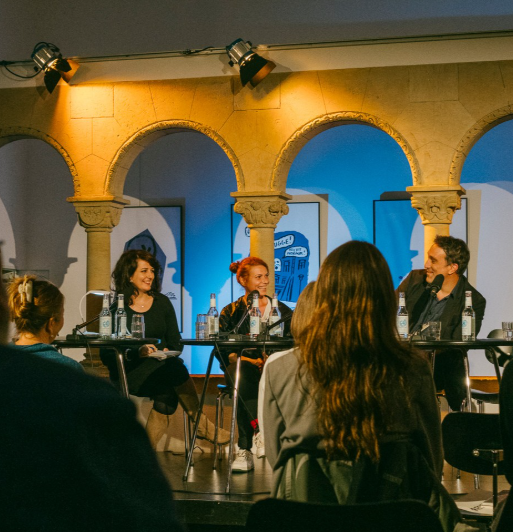
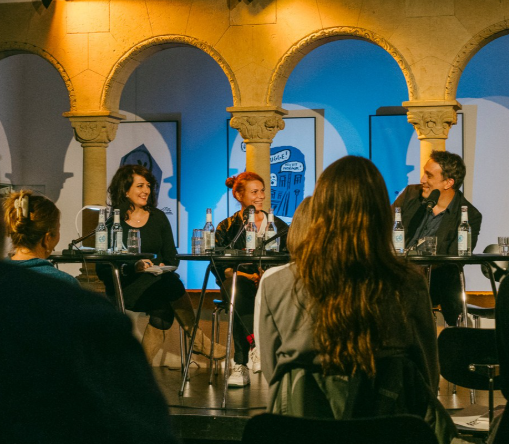
Add photo carousel for Die guten Tage VI event with round nav buttons
Replaces single static image with a two-photo carousel (p9.png, p11.png),
featuring circular prev/next arrow buttons and dot indicators.

diff --git a/src/pages/EventsPage.tsx b/src/pages/EventsPage.tsx
@@ -1,13 +1,19 @@
 import { useTranslation } from 'react-i18next';
+import { useState } from 'react';
 import Box from '@mui/material/Box';
 import Container from '@mui/material/Container';
 import Typography from '@mui/material/Typography';
 import Link from '@mui/material/Link';
+import IconButton from '@mui/material/IconButton';
 import dieGuteTageImg from '../photo/p9.png';
+import dieGuteTageImg2 from '../photo/p11.png';
 import buchmesseImg from '../photo/p10.png';
+
+const dieGuteTagePhotos = [dieGuteTageImg, dieGuteTageImg2];
 
 function EventsPage() {
   const { t } = useTranslation('events');
+  const [carouselIndex, setCarouselIndex] = useState(0);
 
   return (
     <Box sx={{ minHeight: '100vh', backgroundColor: 'background.default' }}>
@@ -58,12 +64,55 @@ function EventsPage() {
 
           {/* Die guten Tage VI */}
           <Box sx={{ mb: 6, border: '1px solid rgba(255,255,255,0.4)', borderRadius: 2, p: { xs: 3, md: 4 } }}>
-            <Box
-              component="img"
-              src={dieGuteTageImg}
-              alt={t('dieGuteTage.title')}
-              sx={{ width: '100%', maxWidth: 520, borderRadius: 2, mb: 3, display: 'block' }}
-            />
+            {/* Carousel */}
+            <Box sx={{ position: 'relative', width: '100%', maxWidth: 520, mb: 3 }}>
+              <Box
+                component="img"
+                src={dieGuteTagePhotos[carouselIndex]}
+                alt={`${t('dieGuteTage.title')} ${carouselIndex + 1}`}
+                sx={{ width: '100%', borderRadius: 2, display: 'block' }}
+              />
+              {/* Prev button */}
+              <IconButton
+                onClick={() => setCarouselIndex((carouselIndex - 1 + dieGuteTagePhotos.length) % dieGuteTagePhotos.length)}
+                sx={{
+                  position: 'absolute', left: 8, top: '50%', transform: 'translateY(-50%)',
+                  backgroundColor: 'rgba(0,0,0,0.45)', color: '#fff',
+                  width: 36, height: 36, borderRadius: '50%',
+                  '&:hover': { backgroundColor: 'rgba(0,0,0,0.7)' },
+                }}
+                aria-label="previous photo"
+              >
+                ‹
+              </IconButton>
+              {/* Next button */}
+              <IconButton
+                onClick={() => setCarouselIndex((carouselIndex + 1) % dieGuteTagePhotos.length)}
+                sx={{
+                  position: 'absolute', right: 8, top: '50%', transform: 'translateY(-50%)',
+                  backgroundColor: 'rgba(0,0,0,0.45)', color: '#fff',
+                  width: 36, height: 36, borderRadius: '50%',
+                  '&:hover': { backgroundColor: 'rgba(0,0,0,0.7)' },
+                }}
+                aria-label="next photo"
+              >
+                ›
+              </IconButton>
+              {/* Dots */}
+              <Box sx={{ display: 'flex', justifyContent: 'center', gap: 1, mt: 1 }}>
+                {dieGuteTagePhotos.map((_, i) => (
+                  <Box
+                    key={i}
+                    onClick={() => setCarouselIndex(i)}
+                    sx={{
+                      width: 8, height: 8, borderRadius: '50%', cursor: 'pointer',
+                      backgroundColor: i === carouselIndex ? '#fff' : 'rgba(255,255,255,0.35)',
+                      transition: 'background-color 0.2s',
+                    }}
+                  />
+                ))}
+              </Box>
+            </Box>
             <Typography variant="h5" sx={{ mb: 1, color: '#ffffff', fontWeight: 600 }}>
               {t('dieGuteTage.title')}
             </Typography>